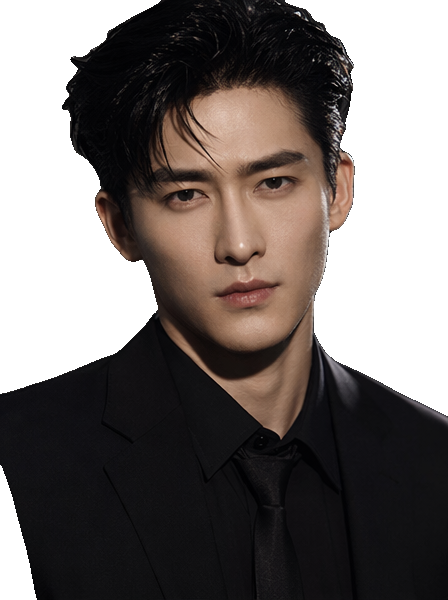
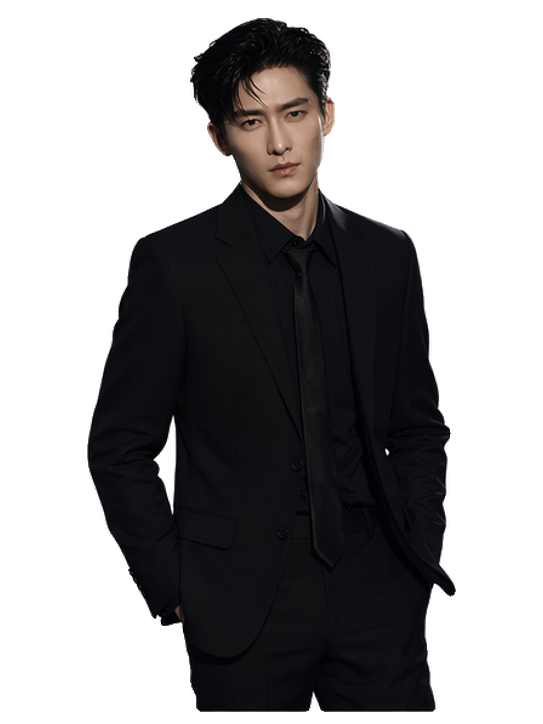
feat: 立绘调整替换处理

diff --git a/src/pages/game/play/play.vue b/src/pages/game/play/play.vue
@@ -3,16 +3,23 @@
     <image v-if="bg" class="bg" :src="bg" mode="aspectFill" />
     <view class="bg-mask"></view>
 
-    <!-- 顶部 HUD -->
-    <view class="hud">
-      <view class="hud-row">
-        <text class="hud-name">{{ char?.name }}</text>
-        <text class="hud-score">羁绊 {{ session.score }}/100</text>
+    <!-- 左上角：极简角色名 + 幕数 -->
+    <view class="hud-name-tag">
+      <text class="hud-name">{{ char?.name }}</text>
+      <text class="hud-step">第 {{ session.step }} 幕</text>
+    </view>
+
+    <!-- 右上角：竖向羁绊条（数字 / 竖条 / 标签） -->
+    <view class="affinity">
+      <text class="affinity-num">{{ session.score }}</text>
+      <view class="affinity-bar">
+        <view
+          class="affinity-fill"
+          :class="{ bump: bumping }"
+          :style="{ height: session.score + '%' }"
+        ></view>
       </view>
-      <view class="bar">
-        <view class="bar-fill" :class="{ bump: bumping }" :style="{ width: session.score + '%' }"></view>
-      </view>
-      <text class="hud-step">{{ node?.chapter || '长夜' }} · 第 {{ session.step }} 幕</text>
+      <text class="affinity-label">羁绊</text>
     </view>
 
     <!-- 飘分 / 心形粒子 -->
@@ -387,37 +394,82 @@ onUnmounted(() => clearInterval(typingTimer))
   background: linear-gradient(180deg, rgba(0,0,0,0.12) 30%, rgba(0,0,0,0.6) 100%);
 }
 
-/* HUD */
-.hud {
+/* 左上角：角色名标签 —— 极简，不再用厚黑色胶囊 */
+.hud-name-tag {
   position: absolute;
-  top: 0; left: 0; right: 0;
+  top: calc(28rpx + env(safe-area-inset-top));
+  left: 28rpx;
   z-index: 10;
-  padding: 24rpx 32rpx 16rpx;
-  background: linear-gradient(180deg, rgba(0,0,0,0.4), rgba(0,0,0,0));
+  display: flex;
+  flex-direction: column;
+  padding: 10rpx 20rpx;
+  background: rgba(20, 16, 32, 0.42);
+  backdrop-filter: blur(8rpx);
+  -webkit-backdrop-filter: blur(8rpx);
+  border-radius: 14rpx;
+  border-left: 4rpx solid var(--c-primary);
 }
-.hud-row { display: flex; justify-content: space-between; align-items: center; }
-.hud-name { color: #fff; font-size: 26rpx; font-weight: 700; }
-.hud-score { color: #fff; font-size: 24rpx; }
-.bar {
-  margin-top: 12rpx;
-  height: 16rpx;
-  border-radius: 12rpx;
-  background: rgba(255,255,255,0.3);
+.hud-name {
+  color: #fff;
+  font-size: 30rpx;
+  font-weight: 700;
+  letter-spacing: 2rpx;
+  line-height: 1.2;
+}
+.hud-step {
+  color: rgba(255, 255, 255, 0.78);
+  font-size: 20rpx;
+  margin-top: 4rpx;
+  letter-spacing: 2rpx;
+}
+
+/* 右上角：竖向羁绊条 —— 数字 / 竖条 / 标签 */
+.affinity {
+  position: absolute;
+  top: calc(28rpx + env(safe-area-inset-top));
+  right: 28rpx;
+  z-index: 10;
+  display: flex;
+  flex-direction: column;
+  align-items: center;
+  gap: 8rpx;
+}
+.affinity-num {
+  color: #fff;
+  font-size: 28rpx;
+  font-weight: 800;
+  text-shadow: 0 2rpx 6rpx rgba(0, 0, 0, 0.5);
+  line-height: 1;
+}
+.affinity-bar {
+  position: relative;
+  width: 14rpx;
+  height: 240rpx;
+  border-radius: 10rpx;
+  background: rgba(255, 255, 255, 0.22);
   overflow: hidden;
+  box-shadow: 0 2rpx 8rpx rgba(0, 0, 0, 0.25);
 }
-.bar-fill {
-  height: 100%;
-  border-radius: 12rpx;
-  background: linear-gradient(90deg, var(--c-primary), var(--c-up));
-  transition: width 0.5s cubic-bezier(0.34, 1.56, 0.64, 1);
+.affinity-fill {
+  position: absolute;
+  left: 0; right: 0; bottom: 0;
+  border-radius: 10rpx;
+  background: linear-gradient(180deg, var(--c-up), var(--c-primary));
+  transition: height 0.5s cubic-bezier(0.34, 1.56, 0.64, 1);
 }
-.bar-fill.bump { animation: bump 0.5s; }
-@keyframes bump {
-  0% { transform: scaleY(1); }
-  50% { transform: scaleY(1.8); }
-  100% { transform: scaleY(1); }
+.affinity-fill.bump { animation: bumpV 0.5s; }
+@keyframes bumpV {
+  0% { transform: scaleX(1); }
+  50% { transform: scaleX(1.8); }
+  100% { transform: scaleX(1); }
 }
-.hud-step { display: block; color: rgba(255,255,255,0.85); font-size: 20rpx; margin-top: 8rpx; letter-spacing: 2rpx; }
+.affinity-label {
+  color: rgba(255, 255, 255, 0.85);
+  font-size: 20rpx;
+  letter-spacing: 4rpx;
+  writing-mode: vertical-rl;
+  text-shadow: 0 2rpx 6rpx rgba(0, 0, 0, 0.5);
+}
 
 /* 飘分 */
 .delta {
@@ -451,15 +503,17 @@ onUnmounted(() => clearInterval(typingTimer))
   100% { opacity: 0; transform: translateY(-260rpx) scale(1.2); }
 }
 
-/* 立绘 */
+/* 立绘：底部贴到对话框上沿，不再悬在屏幕中间 */
 .portrait {
   position: absolute;
   z-index: 5;
   left: 50%;
-  bottom: 440rpx;
+  /* .dock 的内容高度约 320~380rpx，这里让立绘底部正好落在 dock 上沿 */
+  bottom: 320rpx;
   transform: translateX(-50%);
-  width: 560rpx;
-  height: 720rpx;
+  /* 用 rem 控制立绘整体尺寸；宽高比保持 7:9 = 560:720 */
+  width: 25.28rem;
+  height: 32.5rem;
   filter: drop-shadow(0 12rpx 24rpx rgba(0,0,0,0.3));
   opacity: 0;
   transition: opacity 0.5s ease;
